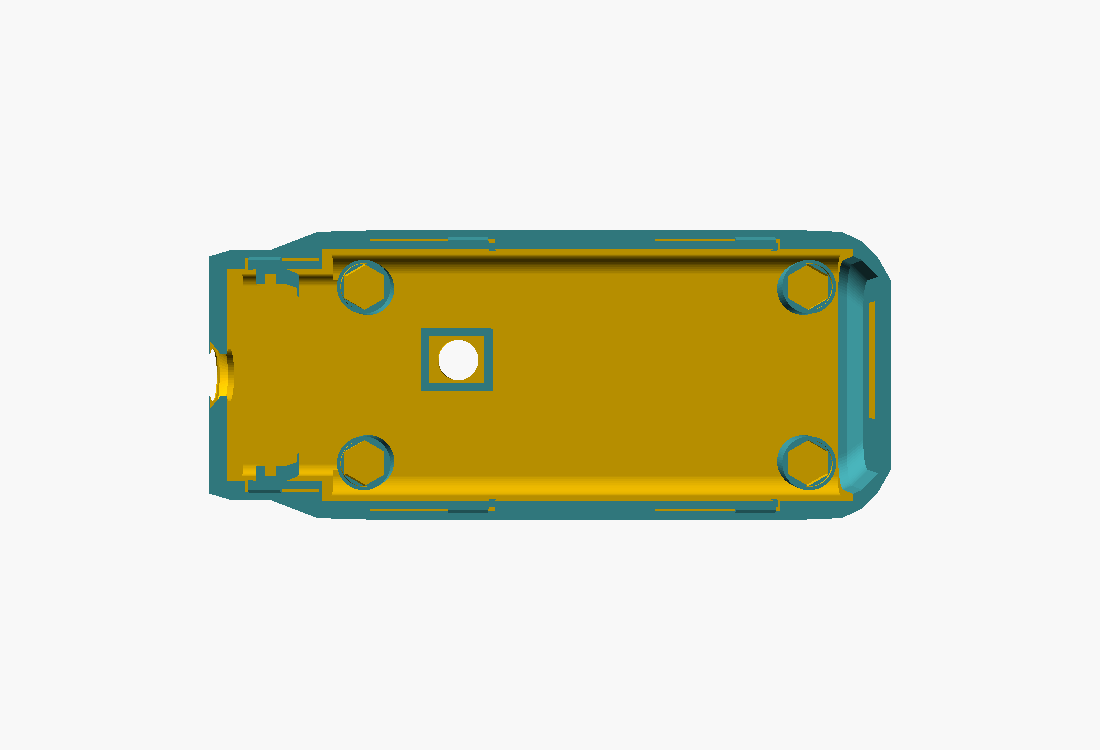
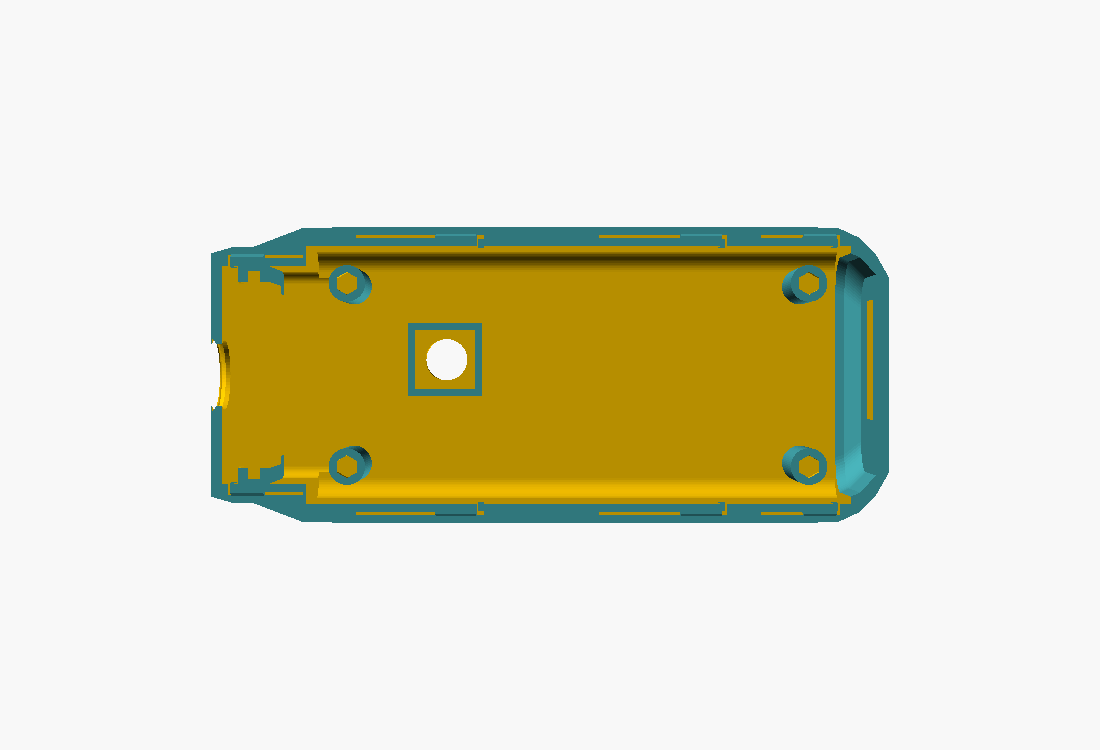
fix(hardware): v0.11 with the measured parts — clamped stack, 4x4 switch with a glued cap and a lid, rear snaps
Measured: heatsink 12x12x4, hexes above the Pi 2.2 across flats standing 1.2, lens
holder 11x11x3 plus an 8 mm lens 1 mm tall, a 4x4x1 SMD switch. The hexes stand too
little to heat-stake without heating the board, so the stack is clamped: right-half
posts locate it on the hexes, left-half posts press the HAT screw heads. The switch
gets a printed cap glued on its actuator and a printed lid (part 06) behind it. The
lens sits 0.6 behind a chamfered face, so the nose is shorter again (83.7 mm long).
The rear pins, which broke, become a pair of snaps like the others.

Changed region(s): [[0.1855, 0.276, 0.8036, 0.7053], [0.3709, 0.4293, 0.4636, 0.552]]

diff --git a/hardware/case-via-clara/README.md b/hardware/case-via-clara/README.md
@@ -9,7 +9,7 @@ error si algo falla.
 
 ![Explotada, con las placas y la cámara](img/exploded_with_hardware.png)
 
-**Medidas exteriores: 86,2 × 28,7 × 36,6 mm** (largo × ancho × alto) del cuerpo; la nariz baja a 31,6
+**Medidas exteriores: 83,7 × 28,7 × 36,6 mm** (largo × ancho × alto) del cuerpo; la nariz baja a 31,6
 de alto. La v0.10 medía 92,9 × 28,7 × 36,6, y la v0.9, 91,9 × 31,4 × 37,6. Con los puentes del elástico
 y el zócalo del brazo, que sobresalen 3,8 de la cara cabeza, el ancho total es 32,5. Las medidas no
 cuentan el brazo del auricular.
@@ -23,13 +23,15 @@ cuentan el brazo del auricular.
 | El botón chocaba con el disipador de la Raspberry | El botón pasó a **x −14**, adelante, lejos del chip del medio. El disipador (14 × 14 × 5) está en el modelo y en las verificaciones |
 | La ranura de la microSD estaba en espejo | Se pasó al lado correcto, y ahora **se abre por el extremo trasero**: la tarjeta entra y sale con la carcasa cerrada |
 | El brazo del auricular no entraba: su tubo chocaba con el zócalo | El tubo arranca 0,4 mm afuera del zócalo, la ficha tiene 0,35 de luz por lado y no tiene los topes que trababan |
-| Seguía siendo grande y con mucho relleno en los extremos | La cámara se acercó a la Pi y la nariz quedó **5,3 mm más corta** y 2 mm más baja (y el extremo trasero, 1,4 más corto). El extremo trasero, que era casi macizo, ahora es una cáscara de 1,6. Sin los pernos traseros: alinean los labios |
+| Las medidas reales (2026-10-21): disipador 12 × 12 × 4; hexágonos sobre la Pi de 2,2 entre caras que asoman 1,2; soporte del lente 11 × 11 × 3 más un lente de Ø 8 × 1; pulsador SMD de 4 × 4 × 1 | Están todas en el modelo. Los hexágonos asoman tan poco que **ya no se termofijan**: se calentaría la placa. El conjunto queda **apretado entre las dos mitades**: postes en la mitad derecha con alojamiento hexagonal que lo ubican, y postes en la izquierda que apoyan en las cabezas de los tornillos. El pulsador va con una **tecla impresa pegada encima** y una **tapita (pieza 06)** que se encastra detrás y lo sostiene. El lente queda 0,6 detrás de la cara, en una abertura achaflanada |
+| Los dos pernos cilíndricos de atrás eran frágiles y se rompían | En su lugar va un **par de trabas** como las de los costados (arriba y abajo, en x 32,5): son 8 trabas en total |
+| Seguía siendo grande y con mucho relleno en los extremos | La cámara se acercó a la Pi y la nariz quedó **7,8 mm más corta** y 2 mm más baja (y el extremo trasero, 1,4 más corto). El extremo trasero, que era casi macizo, ahora es una cáscara de 1,6. Sin los pernos traseros: alinean los labios |
 
 ## Lo que cambió en la v0.10
 
 | Lo que pasó en la impresión | v0.10 |
 |---|---|
-| Los separadores hexagonales están **del lado de la Pi** (junto al header) y bajo la HAT sólo quedan las cabezas de los tornillos Phillips | El conjunto ahora se fija a la **mitad derecha** (la externa, del lado de la Pi). Las cuatro almohadillas con su alojamiento hexagonal y su collar están ahí, y reciben los separadores que asoman sobre la Pi. Del lado de la HAT sólo hace falta luz para las cabezas de los tornillos (1,8 + 0,3) |
+| Los separadores hexagonales están **del lado de la Pi** (junto al header) y bajo la HAT sólo quedan las cabezas de los tornillos Phillips | El conjunto ahora se fija a la **mitad derecha** (la externa, del lado de la Pi). Las cuatro almohadillas (en la v0.11, postes) están ahí, y reciben los separadores que asoman sobre la Pi. Del lado de la HAT sólo hace falta luz para las cabezas de los tornillos (1,8 + 0,3) |
 | Hubo que cortar el extremo trasero con una Dremel: la microSD no entraba | Atrás hay un **lugar para la tarjeta** a la altura de la Pi: 3,5 de tarjeta afuera del borde (`SD_CARD_OUT`, medir) + 1,0 de luz |
 | Paredes demasiado gruesas | Costados de **1,6** (antes 2,2), arriba y abajo de **2,4** (antes 2,7; ahí viven las vigas de las trabas). La cavidad sigue al conjunto real. Las mitades llevan entre 14 y 22 % menos plástico |
 | La cámara quedaba con la imagen girada 90° respecto de lo que ve el usuario | La cámara **gira 90° en su plano**: el conector del flex queda en el costado, hacia la Pi, y no abajo. Además el flex va derecho al CSI, sin retorcerse. Si la imagen sale cabeza abajo, se corrige por software (rotación de 180° en libcamera) |
@@ -48,16 +50,13 @@ va primero:
 
 | Parámetro | Qué medir | Valor | Si está mal |
 |---|---|---|---|
-| `HEATSINK`, `HEATSINK_C` | el disipador de la Pi: tamaño y alto, y dónde está su centro | 14 × 14 × 5, a 25 del extremo de la microSD | el botón vuelve a chocar con él |
-| `HEX_H`, `HEX_AF` | los separadores hexagonales que asoman **sobre la Pi**: cuánto sobresalen de la cara de la Pi, y entre caras | 6,0 / 5,0 | no entran en la almohadilla o quedan flojos; si sobresalen más que el header (8,5), la carcasa se ensancha sola |
+| `HEATSINK_C` | dónde está el centro del disipador (12 × 12 × 4, medido) | a 25 del extremo de la microSD, centrado | el botón está lejos igual; sólo importa si se mueve el botón |
 | `SCREW_HEAD_H`, `SCREW_HEAD_D` | las cabezas de los tornillos bajo la HAT | 1,8 / 4,5 | tocan la pared del lado de la cabeza |
 | `SD_CARD_OUT`, `SD_ZC` | cuánto sobresale la microSD del borde de la Pi, y dónde está su centro | 3,5 / 1,9 | la ranura trasera no queda frente a la tarjeta |
-| `AI_CAM_HOLDER` | el soporte cuadrado del lente: lado, y cuánto sobresale de la cara del PCB | 12,0 / 4,6 | la cámara no llega a su ranura |
 | `BOARD_GAP` | de la cara superior de la HAT a la cara inferior de la Pi | 11,3 | en la v0.9 entró bien |
 | `LEVER_Y`, `LEVER_TRAVEL`, `SW_BODY_H` | altura de la palanca sobre la HAT, su recorrido y el alto de la carcasa de la llave | 2–5 / 3,3 / 7 | la horquilla no agarra la palanca o no la lleva hasta el final |
 | `PI_PORT_OVERHANG` | cuánto sobresalen el mini HDMI y los micro USB del borde de la Pi | 0,8 | si es más de 0,9, tocan la pared de abajo |
-| `SWITCH_T` | alto total del pulsador de 6 × 6, con el actuador (los hay de 4,3 y de 5,0) | 5,0 | el botón queda flojo o siempre apretado |
-| `PI_PARTS_LOW` | lo más alto de la cara de la Pi debajo del botón (el chip del centro) | 1,6 | las patas recortadas del pulsador quedan a 0,5 de la Pi |
+| `SWITCH_T`, `SWITCH_LEG_SPAN` | el pulsador de 4 × 4: alto total con el actuador, y ancho con las patas | 1,5 / 5,8 | la tecla queda floja o siempre apretada |
 | `TRANSDUCER_SIZE` | el transductor óseo | 14,0 | — |
 
 Antes de imprimir la carcasa entera, conviene imprimir sólo la **nariz** (cortar en x < −25 en el
@@ -80,8 +79,8 @@ genera `export.sh` a partir de `via_clara_v0_11_guide.scad`:
 |---|---|
 | `outer.png` | cara externa: botón de modos, anillo táctil, carga, ranura para abrir |
 | `head.png` | cara cabeza: perilla de encendido y su punto ON, puentes del elástico, zócalo y brazo del auricular, lente |
-| `left_inside.png` | adentro de la mitad izquierda: ranura de la cámara, corredera, paso del cable, carga, ranuras de las trabas |
-| `right_inside.png` | adentro de la mitad derecha: almohadillas y collares, vigas y ganchos de las trabas, puentes a cortar, cajón del pulsador, recorrido del flex, lugar de la microSD |
+| `left_inside.png` | adentro de la mitad izquierda: postes que aprietan las cabezas de los tornillos, ranura de la cámara, corredera, paso del cable, carga, ranuras de las trabas |
+| `right_inside.png` | adentro de la mitad derecha: postes que ubican el conjunto, tapita del pulsador, vigas y ganchos de las trabas, puentes a cortar, cajón del pulsador, recorrido del flex, lugar de la microSD |
 | `exploded.png` | despiece con las placas: qué pieza es cada una |
 
 ![Adentro de la mitad derecha](img/guide/right_inside.png)
@@ -118,14 +117,14 @@ menores, la carcasa se achica sola.
 
 | Especificación | v0.10 |
 |---|---|
-| Sin tornillos, cierre por click | **6 trabas a presión**, 3 arriba y 3 abajo. Cada una es una **viga** de 6 a 10 mm que corre a lo largo de la junta, dentro de la pared de la mitad derecha. En la punta lleva un **gancho** que cruza la junta y cae en una ranura de la mitad izquierda: para abrir o cerrar, la viga flexiona ~0,35 mm, dentro del plano de la cama. Cada viga se imprime atada por un **puente en la ranura de su extremo, que hay que cortar después de imprimir**. Además hay un labio de alineación en el resto de la junta y una ranura atrás para abrir con la uña |
-| Sin tapa de cámara | la cámara queda **dentro de las dos mitades**: el PCB entra en una **ranura** con nervios de 1,2 adelante y atrás, que cubren 1,0 del borde, con 0,3 de luz. **Una sola abertura frontal**, centrada en el lente |
+| Sin tornillos, cierre por click | **8 trabas a presión**, 4 arriba y 4 abajo. Cada una es una **viga** de 6 a 10 mm que corre a lo largo de la junta, dentro de la pared de la mitad derecha. En la punta lleva un **gancho** que cruza la junta y cae en una ranura de la mitad izquierda: para abrir o cerrar, la viga flexiona ~0,35 mm, dentro del plano de la cama. Cada viga se imprime atada por un **puente en la ranura de su extremo, que hay que cortar después de imprimir**. Además hay un labio de alineación en el resto de la junta y una ranura atrás para abrir con la uña |
+| Sin tapa de cámara | la cámara queda **dentro de las dos mitades**: el PCB entra en una **ranura** con nervios de 1,2 adelante y atrás, que cubren 1,0 del borde, con 0,3 de luz. Adelante hay lugar para el soporte cuadrado del lente (11 × 11 × 3) y el lente (Ø 8 × 1), que queda 0,6 detrás de la cara. **Una sola abertura frontal**, centrada en el lente |
 | Flex de la cámara | sale del conector por el costado de la cámara que mira a la Pi, corre pegado a la pared externa y baja al CSI. Ese recorrido está reservado (verificación `flex`) |
-| Sin pines a través de la Raspberry | **4 almohadillas en la mitad derecha** reciben los separadores hexagonales que asoman sobre la Pi, y un **collar de plástico** se refunde sobre cada uno con el soldador. El collar queda a 3,4 mm de la Pi |
+| Sin pines a través de la Raspberry | **4 postes en la mitad derecha** con alojamiento hexagonal ubican el conjunto sobre los hexágonos de la Pi, y **4 postes en la izquierda** apoyan en las cabezas de los tornillos bajo la HAT: al cerrar, el conjunto queda apretado (verificación `clamp`). Sin calor: los hexágonos asoman 1,2 y el soldador quedaría pegado a la placa |
 | Interruptor accesible | **corredera impresa** (pieza 05): una perilla de **3,8 × 3 mm** en una ventana del tamaño de la llave, 1,5 en relieve, con tres estrías y un **punto en relieve que marca el lado ON**. Asoma por una ventana adelante en la cara cabeza, y una horquilla toma la palanca de la llave de punta a punta: ON abajo, OFF arriba |
 | Carga | canal en la pared trasera a la altura del micro USB de la HAT, para la ficha moldeada |
 | microSD | **entra y sale por una ranura en el extremo trasero**, con la carcasa cerrada |
-| Un solo botón | **botón de modos** en la cara externa, adelante (x −14), lejos del disipador, con un **anillo en bajorrelieve** para encontrarlo al tacto. La tecla y el pulsador de 6 × 6 de 4 patas entran derecho desde adentro en su bolsillo (verificaciones `cap_insert` y `switch_insert`); una gota de pegamento caliente fija el pulsador |
+| Un solo botón | **botón de modos** en la cara externa, adelante (x −14), con un **anillo en bajorrelieve** para encontrarlo al tacto. El pulsador SMD de 4 × 4 × 1 tiene un actuador de menos de 1 mm, así que lleva una **tecla impresa (pieza 04) pegada encima**, que asoma por el agujero. Tecla, pulsador y tapita (pieza 06) entran derecho desde adentro en su bolsillo (verificaciones `cap_insert`, `switch_insert` y `lid_insert`); la tapita se encastra en un escalón detrás del pulsador y lo sostiene cuando se aprieta |
 | Auricular óseo, 14 mm | 14 nominales + 0,2 de holgura por lado. El brazo es pieza aparte y sigue a la cara cabeza |
 | Canal para el elástico | **dos puentes** en la cara cabeza, para un elástico plano de 6 mm |
 
@@ -133,28 +132,24 @@ menores, la carcasa se achica sola.
 
 Ahora el conjunto va en la **mitad derecha** (la externa). Hay que poner primero el botón, que queda debajo de la Pi.
 
-1. **Botón.** Cortar las cuatro patas del pulsador a ~1,5 mm y soldarle los cables saliendo **de costado**,
-   no hacia abajo, porque debajo está la Pi. En la mitad derecha, apoyada sobre su cara externa, dejar
-   caer la tecla en su bolsillo, con la cabeza hacia el agujero, y después el pulsador encima, con el
-   actuador hacia la tecla y las patas a los costados largos del bolsillo. Fijarlo con una gota de
-   pegamento caliente en los bordes. Los cables van al GPIO de la Pi.
+1. **Botón.** Pegar la tecla (pieza 04) sobre el actuador del pulsador de 4 × 4, centrada, y soldar los
+   cables al pulsador. En la mitad derecha, apoyada sobre su cara externa, meter el conjunto tecla +
+   pulsador en su bolsillo, con la cabeza de la tecla por el agujero. Encastrar la tapita (pieza 06)
+   detrás, con la muesca hacia abajo para que salgan los cables. Los cables van al GPIO de la Pi.
 2. **Electrónica.** Bajar el conjunto HAT + batería + Pi entero, **con la Pi hacia abajo**, sobre la
-   mitad derecha. Los cuatro separadores hexagonales entran en las almohadillas (verificación
-   `stack_insert`).
-3. **Fijar los separadores.** Con la punta del soldador (~200 °C para PLA), refundir el collar de cada
-   almohadilla sobre su separador. Hacerlo de a uno, unos segundos en cada uno: el collar está a 3,4 mm
-   de la Pi.
-4. **Cámara.** Enfocar antes de cerrar. Conectar el flex a la cámara y al CSI de la Pi. Bajar el PCB
+   mitad derecha: los hexágonos que asoman sobre la Pi entran en los postes (verificación
+   `stack_insert`). Si se quiere más firmeza, una gota de pegamento caliente en cada alojamiento.
+3. **Cámara.** Enfocar antes de cerrar. Conectar el flex a la cámara y al CSI de la Pi. Bajar el PCB
    dentro de la ranura, con el conector hacia la Pi (hacia la mitad derecha), la óptica por la ventana y
    el soporte cuadrado del lente frente a su lugar. El flex corre pegado a la pared externa.
-5. **Corredera.** En la mitad izquierda, desde adentro, pasar la perilla por su ventana de la cara
+4. **Corredera.** En la mitad izquierda, desde adentro, pasar la perilla por su ventana de la cara
    cabeza, con la horquilla hacia adentro. Dejarla **arriba del todo (OFF)**, y la llave de la HAT
    también en **OFF**.
-6. **Auricular.** Pasar el cable por el puerto de la mitad izquierda y el canal del brazo, y enchufar
+5. **Auricular.** Pasar el cable por el puerto de la mitad izquierda y el canal del brazo, y enchufar
    el brazo en su zócalo. Si queda flojo, una gota de pegamento.
-7. **Cerrar.** Bajar la mitad izquierda sobre la derecha. La palanca de la llave entra en la horquilla
+6. **Cerrar.** Bajar la mitad izquierda sobre la derecha. La palanca de la llave entra en la horquilla
    de la corredera (verificación `lever_insert`) y los labios guían. Apretar hasta escuchar las
-   seis trabas. Para abrir: uña o moneda en la ranura trasera.
+   ocho trabas. Los postes de la mitad izquierda aprietan el conjunto contra los de la derecha. Para abrir: uña o moneda en la ranura trasera.
 
 ## Impresión
 
@@ -164,10 +159,11 @@ PETG si es posible (aguanta mejor las aperturas repetidas); PLA también sirve. 
 | STL | Orientación | Soportes |
 |---|---|---|
 | `01_left_half_v0_11.stl` | cara cabeza abajo; apoya en las caras planas del zócalo del brazo y de los dos puentes del elástico | sí, bajo la cara cabeza; bloquearlos dentro de la cavidad |
-| `02_right_half_v0_11.stl` | cara externa abajo, plana; las trabas y las almohadillas crecen hacia arriba | sólo bajo el ahusado trasero y la punta de la nariz. Después de imprimir, **cortar los 6 puentes** de las vigas de las trabas, contra la punta de cada viga |
+| `02_right_half_v0_11.stl` | cara externa abajo, plana; las trabas y los postes crecen hacia arriba | sólo bajo el ahusado trasero y la punta de la nariz. Después de imprimir, **cortar los 8 puentes** de las vigas de las trabas, contra la punta de cada viga |
 | `03_bone_arm_v0_11.stl` | acostado | de árbol |
 | `04_mode_button_v0_11.stl` | parado sobre la brida | no |
 | `05_power_slider_v0_11.stl` | acostado sobre su cara lateral plana | no |
+| `06_button_lid_v0_11.stl` | acostada | no |
 | `00_assembly_check_v0_11.stl` | — | **no se imprime**: el conjunto cerrado, para revisar en el laminador |
 
 ## Archivos y verificaciones
@@ -181,17 +177,18 @@ export.sh                    regenera stl/ e img/ y corre las verificaciones
 ```
 
 `export.sh` comprueba que cada pieza imprimible sea **un solo sólido** que apoya en la cama, y corre
-**15 verificaciones** de interferencia, que tienen que dar vacío o un contacto de volumen cero:
+**18 verificaciones** de interferencia, que tienen que dar vacío o un contacto de volumen cero:
 
 - las mitades entre sí;
 - cada mitad contra las placas, la batería, la llave, la cámara, el pulsador, las cabezas de los tornillos y los separadores hexagonales;
-- las almohadillas;
+- los postes contra los hexágonos;
 - el botón;
 - la corredera en ON y en OFF;
 - el recorrido del flex;
 - las maquetas entre sí;
 - el brazo;
 - el cajón;
-- los caminos de armado: la tecla y el pulsador entrando al cajón, el conjunto bajando a las almohadillas y la palanca entrando a la horquilla.
+- los caminos de armado: la tecla, el pulsador y la tapita entrando al bolsillo, el conjunto bajando a los postes y la palanca entrando a la horquilla;
+- el apriete: los postes de la mitad izquierda contra las cabezas de los tornillos.
 
 Valen **contra las maquetas**: tanto como las medidas de la tabla de arriba.
